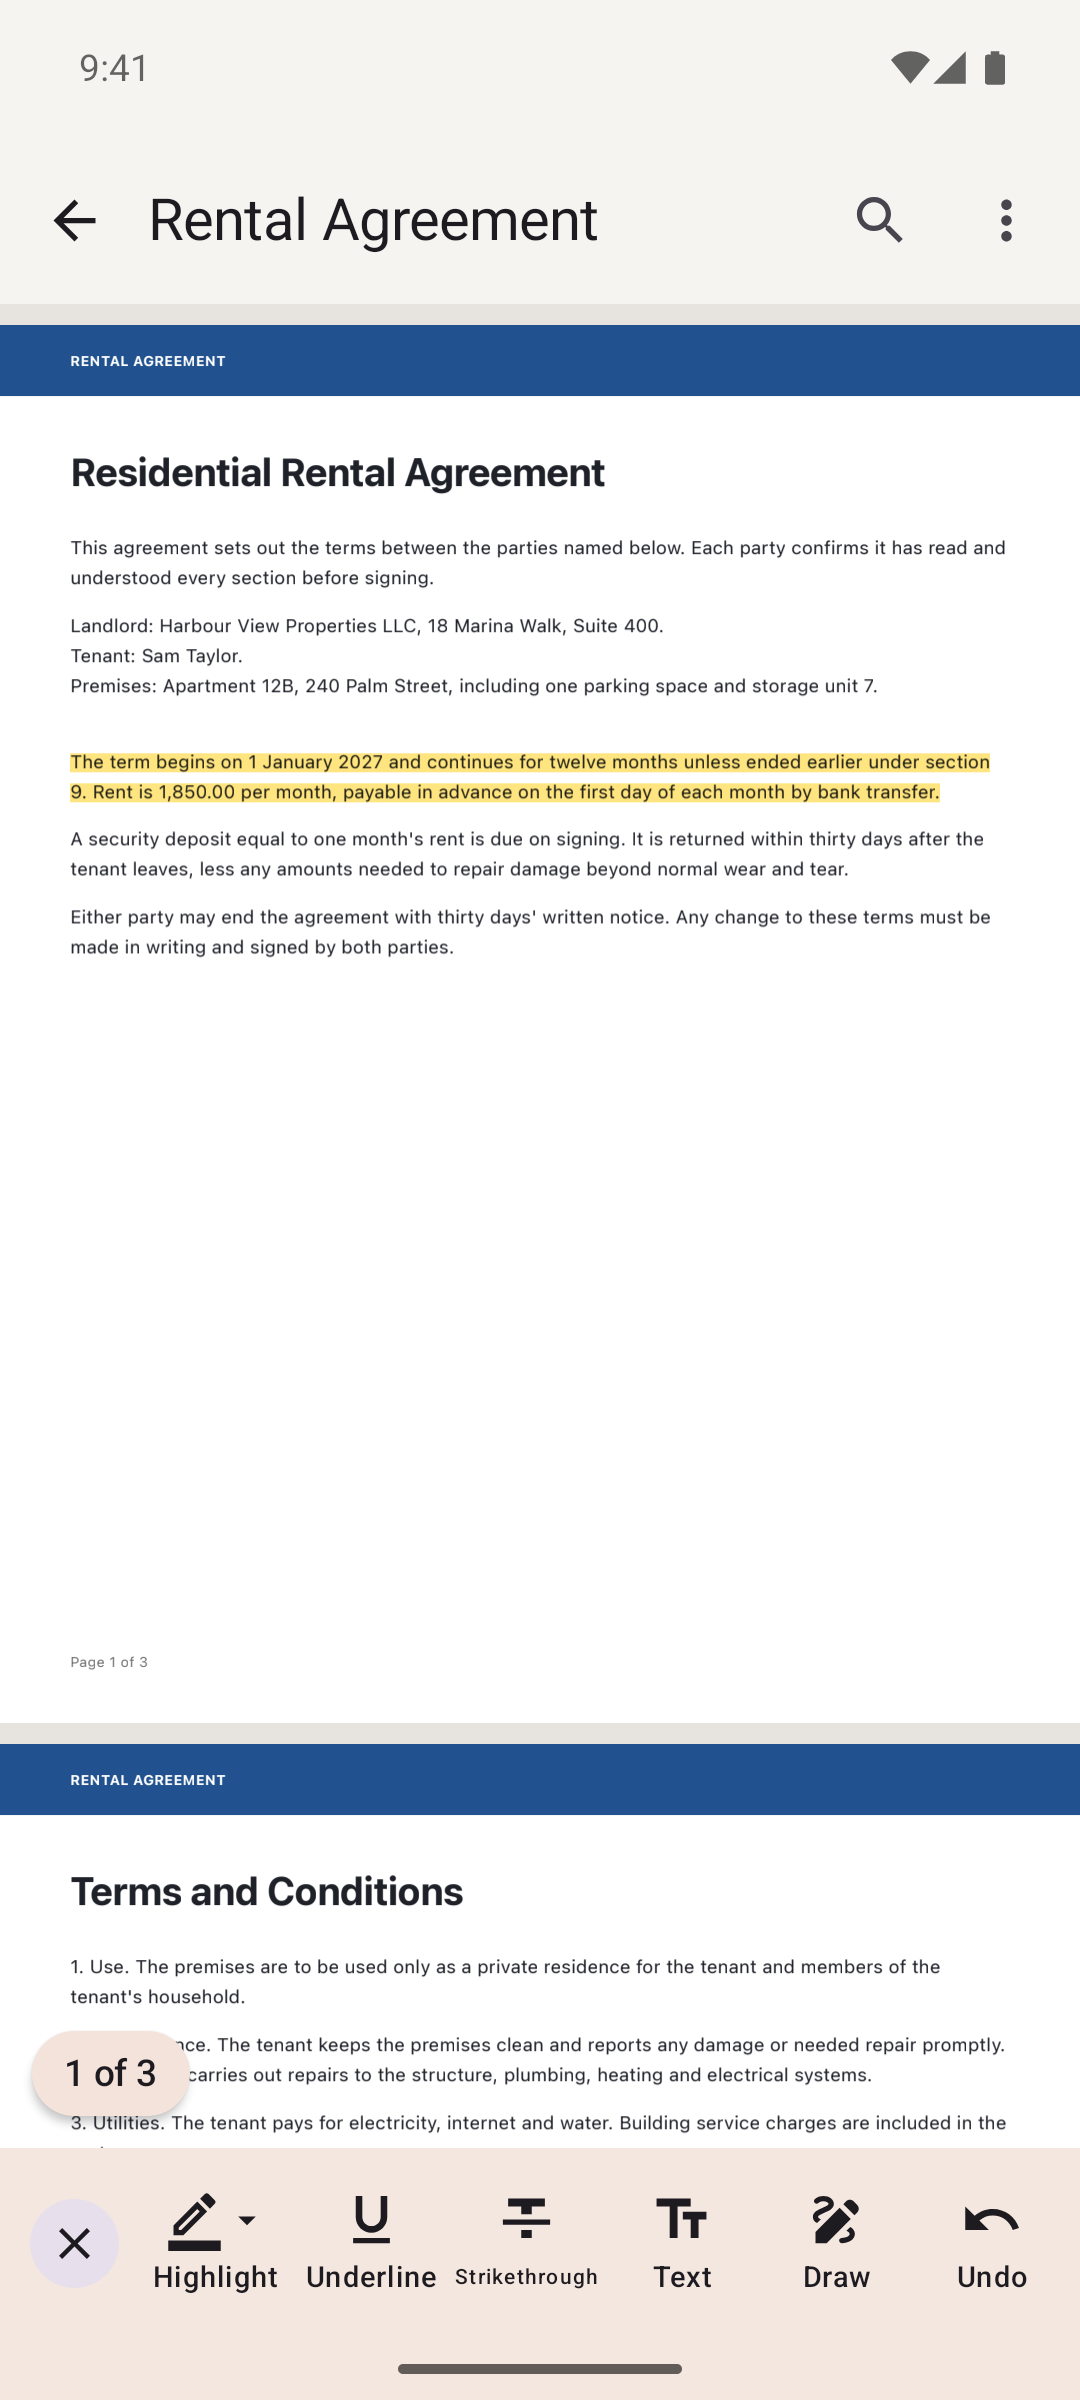
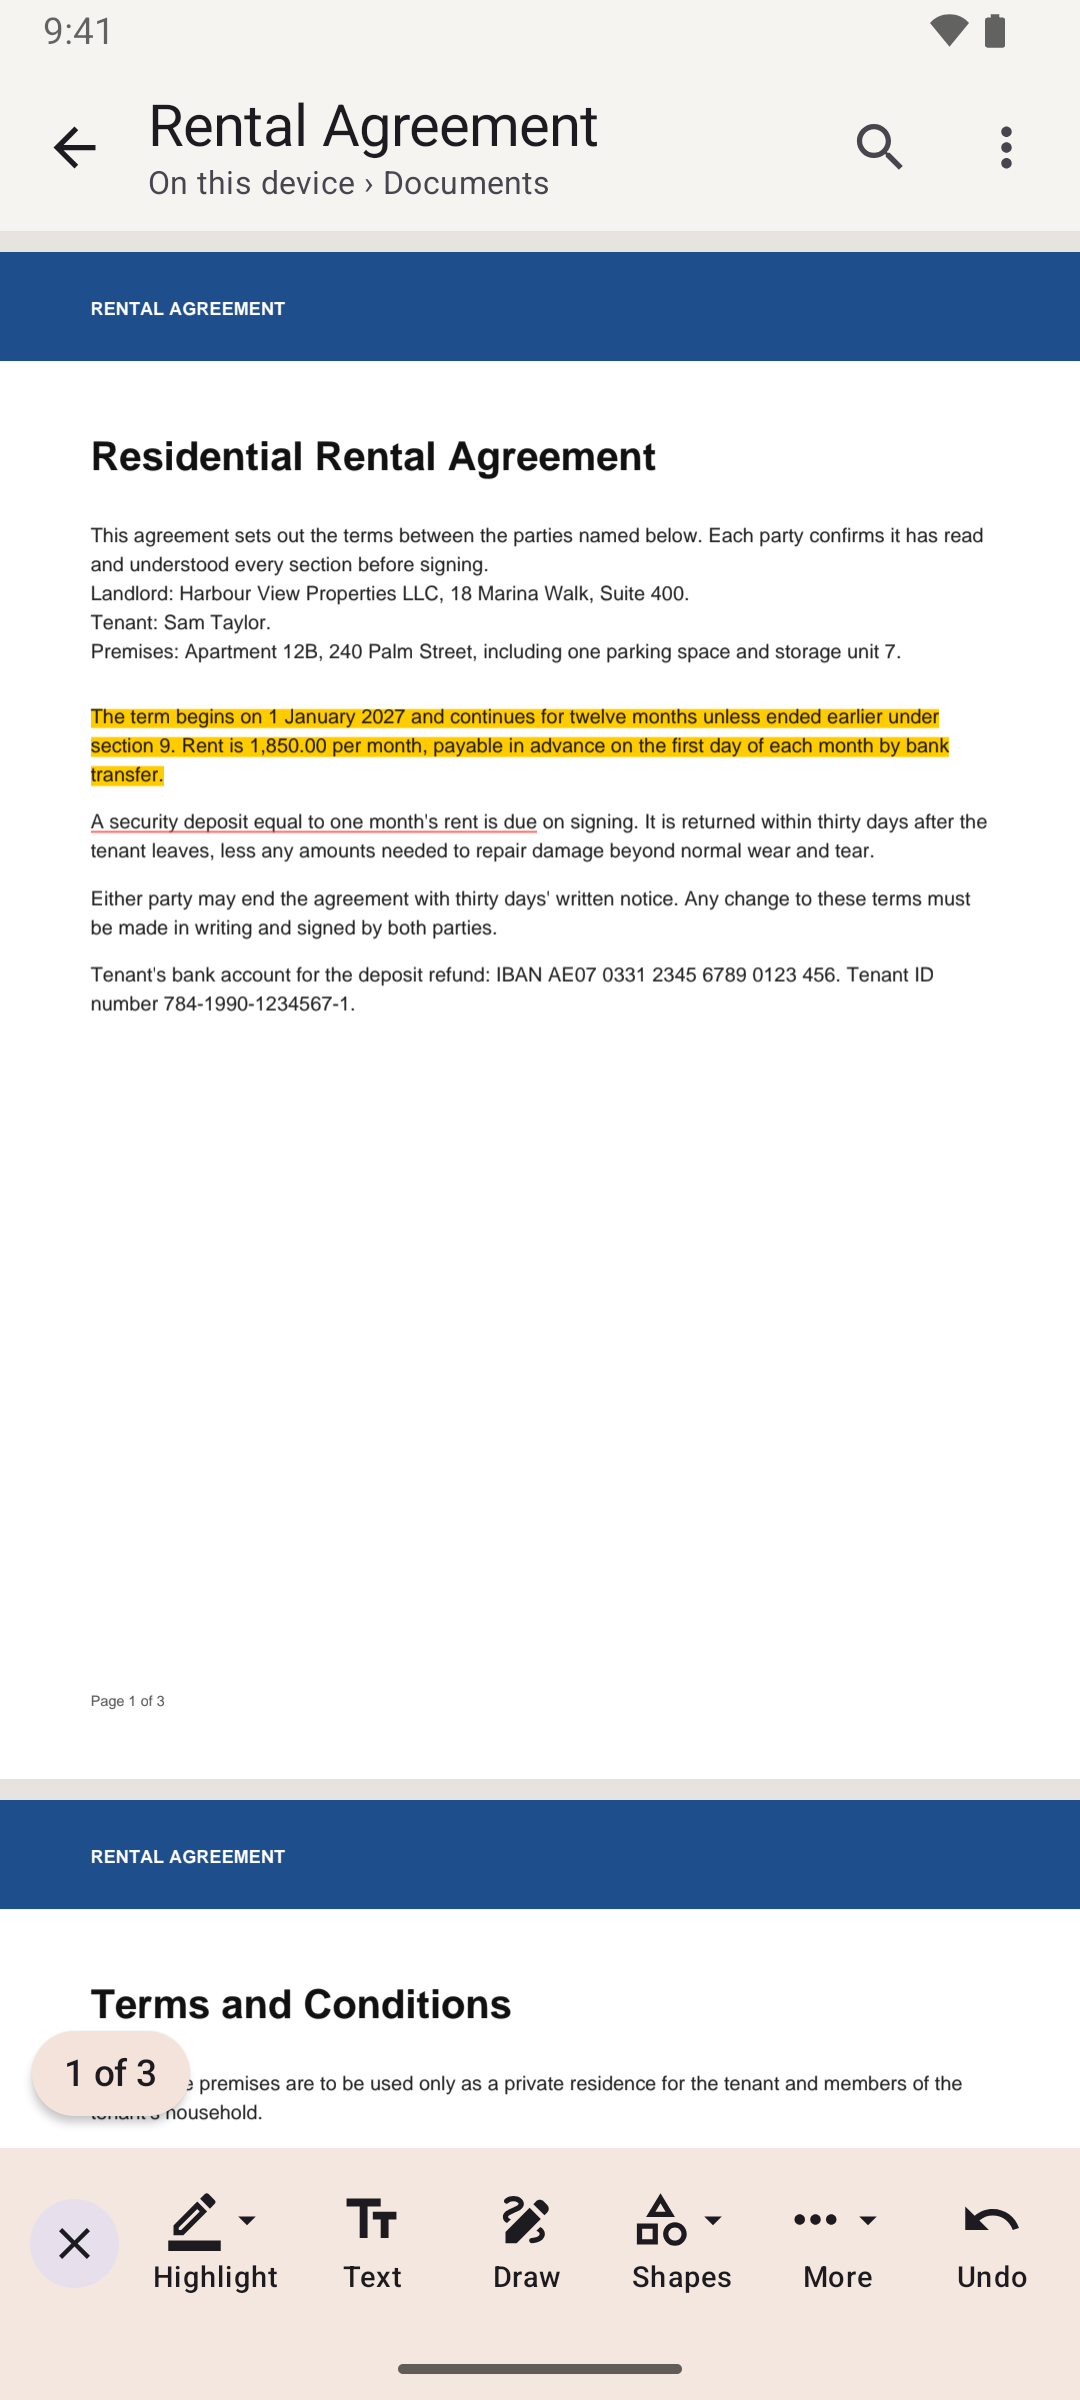
Android screenshots for the new markup tools and Play art re-rendered
New shots: shapes and a comment, a selected mark with handles, Redact with
pending boxes, the Watermark sheet. Every other phone shot retaken so the
reader bars, Tools sections and About version are current. The Play phone
images now include the shapes and Redact shots and the new Tools tab.

diff --git a/Tools/make_play_art.swift b/Tools/make_play_art.swift
@@ -97,9 +97,9 @@ do {
 let captions: [(file: String, caption: String)] = [
     ("01-library", "Your documents in one place"),
     ("02-fill-sign", "Fill in and sign forms"),
-    ("03-merge", "Merge documents"),
-    ("04-pages", "Reorder, rotate and delete pages"),
-    ("05-settings", "Private: no account, no ads"),
+    ("11-shapes-comment", "Highlight, draw and comment"),
+    ("13-redact", "Black out private details"),
+    ("07-tools", "Every PDF tool you need"),
 ]
 for (index, item) in captions.enumerated() {
     let shot = load(shots.appendingPathComponent("\(item.file).png"))
